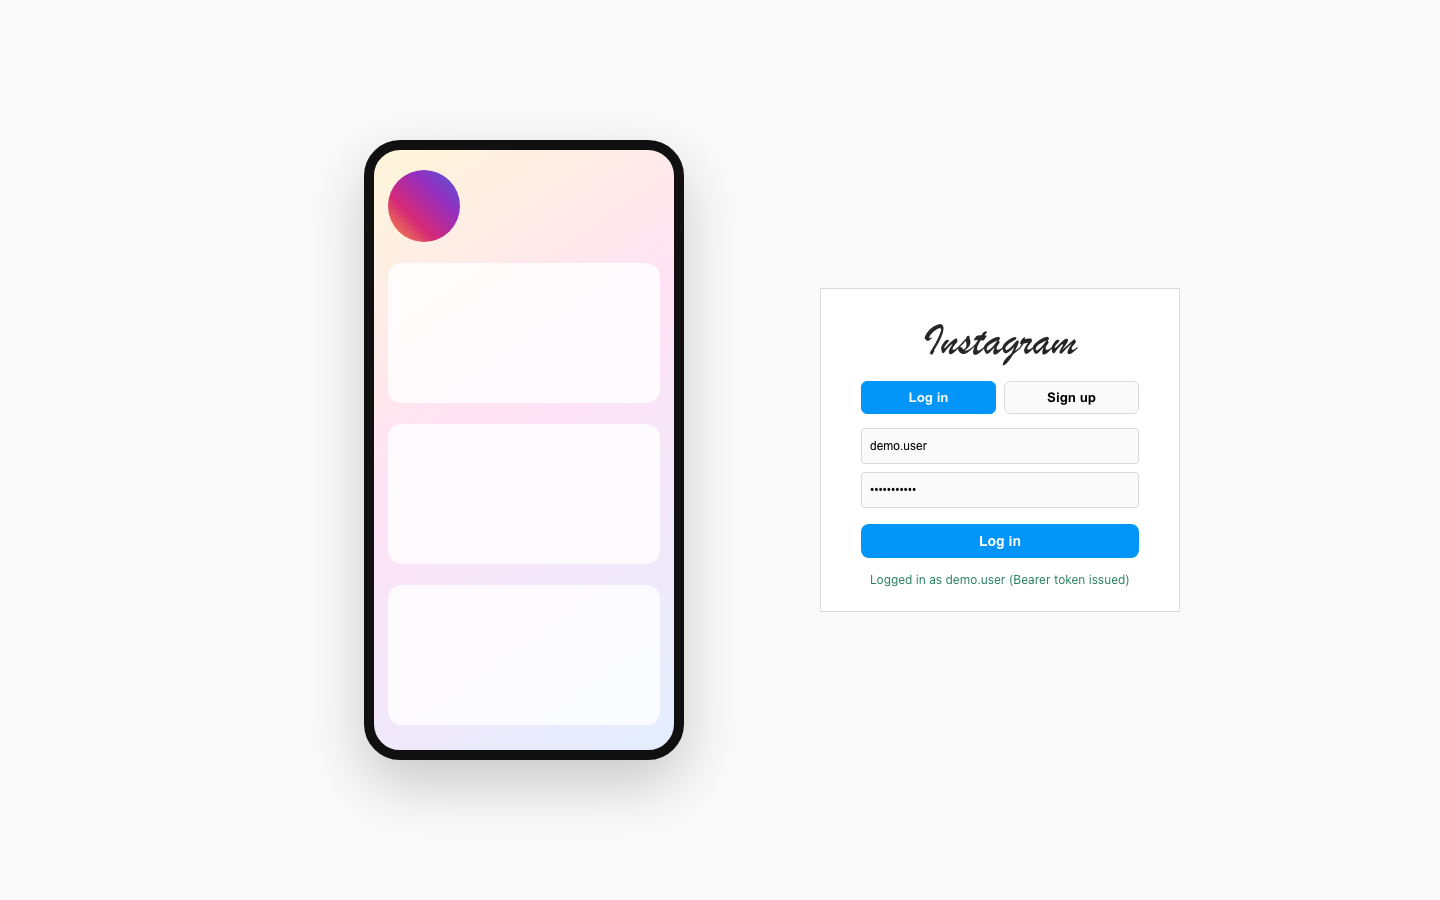
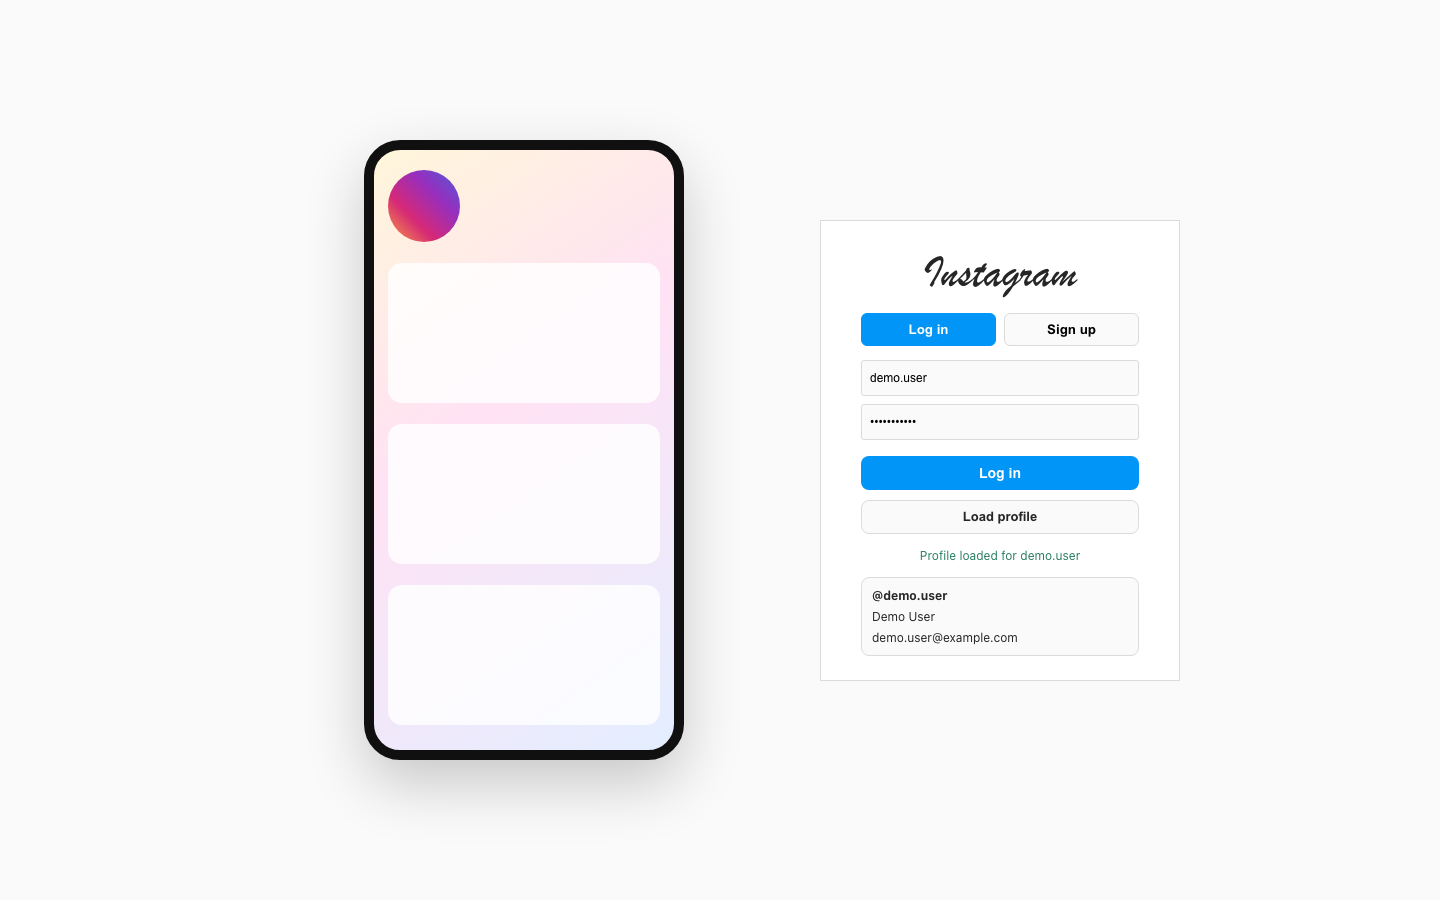
Implement protected /api/me endpoint with JWT auth

Changed region(s): [[0.5938, 0.28, 0.8125, 0.7156]]

diff --git a/src/test/java/com/instagram/backend/AuthIntegrationTests.java b/src/test/java/com/instagram/backend/AuthIntegrationTests.java
@@ -1,5 +1,6 @@
 package com.instagram.backend;
 
+import static org.springframework.test.web.servlet.request.MockMvcRequestBuilders.get;
 import static org.springframework.test.web.servlet.request.MockMvcRequestBuilders.post;
 import static org.springframework.test.web.servlet.result.MockMvcResultMatchers.jsonPath;
 import static org.springframework.test.web.servlet.result.MockMvcResultMatchers.status;
@@ -8,12 +9,17 @@ import org.junit.jupiter.api.Test;
 import org.springframework.beans.factory.annotation.Autowired;
 import org.springframework.boot.test.context.SpringBootTest;
 import org.springframework.boot.webmvc.test.autoconfigure.AutoConfigureMockMvc;
+import org.springframework.http.MediaType;
 import org.springframework.test.context.DynamicPropertyRegistry;
 import org.springframework.test.context.DynamicPropertySource;
 import org.springframework.test.web.servlet.MockMvc;
+import org.springframework.test.web.servlet.MvcResult;
 import org.testcontainers.containers.PostgreSQLContainer;
 import org.testcontainers.junit.jupiter.Container;
 import org.testcontainers.junit.jupiter.Testcontainers;
+
+import java.util.regex.Matcher;
+import java.util.regex.Pattern;
 
 @SpringBootTest
 @AutoConfigureMockMvc
@@ -73,5 +79,55 @@ class AuthIntegrationTests {
                 .andExpect(jsonPath("$.accessToken").isString())
                 .andExpect(jsonPath("$.tokenType").value("Bearer"))
                 .andExpect(jsonPath("$.expiresAt").isNumber());
+    }
+
+    @Test
+    void meRequiresBearerToken() throws Exception {
+        mockMvc.perform(get("/api/me"))
+                .andExpect(status().isUnauthorized());
+    }
+
+    @Test
+    void meReturnsAuthenticatedUserWhenTokenProvided() throws Exception {
+        String accessToken = loginAndExtractToken();
+
+        mockMvc.perform(get("/api/me")
+                        .header("Authorization", "Bearer " + accessToken))
+                .andExpect(status().isOk())
+                .andExpect(jsonPath("$.username").value("demo.user"))
+                .andExpect(jsonPath("$.fullName").value("Demo User"))
+                .andExpect(jsonPath("$.email").value("demo.user@example.com"))
+                .andExpect(jsonPath("$.createdAt").isString());
+    }
+
+    @Test
+    void meRejectsInvalidBearerToken() throws Exception {
+        mockMvc.perform(get("/api/me")
+                        .header("Authorization", "Bearer not-a-valid-token"))
+                .andExpect(status().isUnauthorized());
+    }
+
+    private String loginAndExtractToken() throws Exception {
+        MvcResult login = mockMvc.perform(post("/api/auth/login")
+                        .contentType(MediaType.APPLICATION_JSON)
+                        .content("""
+                                {
+                                  "identifier":"demo.user",
+                                  "password":"password123"
+                                }
+                                """))
+                .andExpect(status().isOk())
+                .andReturn();
+
+        return extractJsonValue(login.getResponse().getContentAsString(), "accessToken");
+    }
+
+    private String extractJsonValue(String json, String fieldName) {
+        Pattern pattern = Pattern.compile("\"" + fieldName + "\"\\s*:\\s*\"([^\"]+)\"");
+        Matcher matcher = pattern.matcher(json);
+        if (!matcher.find()) {
+            throw new IllegalStateException("Field not found in JSON response: " + fieldName);
+        }
+        return matcher.group(1);
     }
 }

diff --git a/src/main/java/com/instagram/backend/service/TokenService.java b/src/main/java/com/instagram/backend/service/TokenService.java
@@ -9,11 +9,14 @@ import javax.crypto.SecretKey;
 
 import org.springframework.beans.factory.annotation.Value;
 import org.springframework.stereotype.Service;
+import org.springframework.web.server.ResponseStatusException;
 
 import com.instagram.backend.domain.UserAccount;
 
+import io.jsonwebtoken.JwtException;
 import io.jsonwebtoken.Jwts;
 import io.jsonwebtoken.security.Keys;
+import org.springframework.http.HttpStatus;
 
 @Service
 public class TokenService {
@@ -44,6 +47,35 @@ public class TokenService {
         return new AuthToken(token, "Bearer", expiresAt.toEpochMilli());
     }
 
+    public AuthenticatedPrincipal parseAccessToken(String authorizationHeader) {
+        if (authorizationHeader == null || !authorizationHeader.startsWith("Bearer ")) {
+            throw new ResponseStatusException(HttpStatus.UNAUTHORIZED, "Missing bearer token");
+        }
+
+        String token = authorizationHeader.substring("Bearer ".length()).trim();
+        if (token.isEmpty()) {
+            throw new ResponseStatusException(HttpStatus.UNAUTHORIZED, "Missing bearer token");
+        }
+
+        try {
+            var claims = Jwts.parser()
+                    .verifyWith(signingKey)
+                    .build()
+                    .parseSignedClaims(token)
+                    .getPayload();
+
+            Long userId = Long.valueOf(claims.getSubject());
+            String username = claims.get("username", String.class);
+            String email = claims.get("email", String.class);
+            return new AuthenticatedPrincipal(userId, username, email);
+        } catch (JwtException | IllegalArgumentException ex) {
+            throw new ResponseStatusException(HttpStatus.UNAUTHORIZED, "Invalid bearer token");
+        }
+    }
+
     public record AuthToken(String accessToken, String tokenType, long expiresAt) {
+    }
+
+    public record AuthenticatedPrincipal(Long userId, String username, String email) {
     }
 }

diff --git a/src/main/java/com/instagram/backend/service/ProfileService.java b/src/main/java/com/instagram/backend/service/ProfileService.java
@@ -1,0 +1,33 @@
+package com.instagram.backend.service;
+
+import org.springframework.http.HttpStatus;
+import org.springframework.stereotype.Service;
+import org.springframework.web.server.ResponseStatusException;
+
+import com.instagram.backend.dto.MeResponse;
+import com.instagram.backend.repository.UserAccountRepository;
+
+@Service
+public class ProfileService {
+
+    private final UserAccountRepository userAccountRepository;
+    private final TokenService tokenService;
+
+    public ProfileService(UserAccountRepository userAccountRepository, TokenService tokenService) {
+        this.userAccountRepository = userAccountRepository;
+        this.tokenService = tokenService;
+    }
+
+    public MeResponse me(String authorizationHeader) {
+        TokenService.AuthenticatedPrincipal principal = tokenService.parseAccessToken(authorizationHeader);
+        var user = userAccountRepository.findById(principal.userId())
+                .orElseThrow(() -> new ResponseStatusException(HttpStatus.UNAUTHORIZED, "User not found for token"));
+
+        return new MeResponse(
+                user.getId(),
+                user.getFullName(),
+                user.getUsername(),
+                user.getEmail(),
+                user.getCreatedAt());
+    }
+}

diff --git a/src/main/java/com/instagram/backend/controller/ProfileController.java b/src/main/java/com/instagram/backend/controller/ProfileController.java
@@ -1,0 +1,25 @@
+package com.instagram.backend.controller;
+
+import org.springframework.web.bind.annotation.GetMapping;
+import org.springframework.web.bind.annotation.RequestHeader;
+import org.springframework.web.bind.annotation.RequestMapping;
+import org.springframework.web.bind.annotation.RestController;
+
+import com.instagram.backend.dto.MeResponse;
+import com.instagram.backend.service.ProfileService;
+
+@RestController
+@RequestMapping("/api")
+public class ProfileController {
+
+    private final ProfileService profileService;
+
+    public ProfileController(ProfileService profileService) {
+        this.profileService = profileService;
+    }
+
+    @GetMapping("/me")
+    public MeResponse me(@RequestHeader(value = "Authorization", required = false) String authorizationHeader) {
+        return profileService.me(authorizationHeader);
+    }
+}

diff --git a/src/main/java/com/instagram/backend/dto/MeResponse.java b/src/main/java/com/instagram/backend/dto/MeResponse.java
@@ -1,0 +1,11 @@
+package com.instagram.backend.dto;
+
+import java.time.Instant;
+
+public record MeResponse(
+        Long id,
+        String fullName,
+        String username,
+        String email,
+        Instant createdAt) {
+}

diff --git a/docs/features/04-protected-me-endpoint.md b/docs/features/04-protected-me-endpoint.md
@@ -1,0 +1,54 @@
+# 04 - Protected `/api/me` Endpoint
+
+## Goal
+
+Add a JWT-protected endpoint so the app can prove authenticated identity end-to-end after login.
+
+## What was built
+
+- Added `GET /api/me` endpoint that requires `Authorization: Bearer <token>`.
+- Added token parsing/verification flow in backend to validate bearer tokens.
+- Added profile service that maps token subject to a real user record.
+- Updated UI to call `/api/me` after login/register and show current profile data.
+
+## Feature IDs covered
+
+- `F-007` Protected endpoint (`/api/me`)
+
+## Implementation map
+
+### Backend
+
+- [ProfileController.java](../../src/main/java/com/instagram/backend/controller/ProfileController.java)
+- [ProfileService.java](../../src/main/java/com/instagram/backend/service/ProfileService.java)
+- [TokenService.java](../../src/main/java/com/instagram/backend/service/TokenService.java)
+- [MeResponse.java](../../src/main/java/com/instagram/backend/dto/MeResponse.java)
+- [AuthIntegrationTests.java](../../src/test/java/com/instagram/backend/AuthIntegrationTests.java)
+- [auth.http](../../http/auth.http)
+
+### UI
+
+- [App.tsx](../../../instagram-ui/src/App.tsx)
+- [index.css](../../../instagram-ui/src/index.css)
+- [demo-auth-proof.mjs](../../../instagram-ui/scripts/demo-auth-proof.mjs)
+
+## Test evidence
+
+- Backend integration tests:
+  - `./gradlew test`
+  - includes `/api/me` cases for missing token, invalid token, and valid token.
+- API verification:
+  - `curl http://localhost:8080/api/me` returns `401` without token.
+  - login + bearer token call to `/api/me` returns `200` with user profile JSON.
+- Browser demo proof screenshots:
+  - [01-login-page.png](../demo-proofs/2026-02-23/01-login-page.png)
+  - [02-login-success.png](../demo-proofs/2026-02-23/02-login-success.png)
+
+## Notes
+
+- `/api/me` returns identity/profile fields only (`id`, `fullName`, `username`, `email`, `createdAt`).
+- Token validation is stateless and based on JWT signature + claims.
+
+## Related system design notes
+
+- [01 - Stateless Auth and Horizontal Scaling](../system-design/01-stateless-auth-and-horizontal-scaling.md)

diff --git a/docs/features/learning-backlog.md b/docs/features/learning-backlog.md
@@ -18,7 +18,7 @@ Use this file to track product/engineering features for the app.
 | F-004 | Login UI | DONE | Browser login flow | [Feature 01](./01-authentication-and-password-security.md) |
 | F-005 | Password hashing (BCrypt) | DONE | Security baseline | [Feature 01](./01-authentication-and-password-security.md) |
 | F-006 | JWT access token issuance | DONE | Stateless auth for scale | [Feature 02](./02-jwt-access-token-issuance.md) |
-| F-007 | Protected endpoint (`/api/me`) | TODO | Validate auth end-to-end |  |
+| F-007 | Protected endpoint (`/api/me`) | DONE | Validate auth end-to-end | [Feature 04](./04-protected-me-endpoint.md) |
 | F-008 | Refresh token flow | TODO | Better session UX/security |  |
 | F-009 | Basic profile page API/UI | TODO | First authenticated product feature |  |
 | F-010 | Posts create/read API/UI | TODO | Core social functionality |  |

diff --git a/docs/index.md b/docs/index.md
@@ -7,6 +7,7 @@
 - [Feature 01: Authentication and Password Security](./features/01-authentication-and-password-security.md)
 - [Feature 02: JWT Access Token Issuance](./features/02-jwt-access-token-issuance.md)
 - [Feature 03: Browser Demo Proof and Visual Verification](./features/03-browser-demo-proof-and-visual-verification.md)
+- [Feature 04: Protected `/api/me` Endpoint](./features/04-protected-me-endpoint.md)
 - [Testing Strategy](./testing-strategy.md)
 - [Demo Proofs](./demo-proofs/README.md)
 - [System Design Path](./system-design/README.md)

diff --git a/docs/features/README.md b/docs/features/README.md
@@ -14,6 +14,7 @@ This section tracks feature implementation notes in a numbered sequence, similar
 - [01 - Authentication and Password Security](./01-authentication-and-password-security.md)
 - [02 - JWT Access Token Issuance](./02-jwt-access-token-issuance.md)
 - [03 - Browser Demo Proof and Visual Verification](./03-browser-demo-proof-and-visual-verification.md)
+- [04 - Protected `/api/me` Endpoint](./04-protected-me-endpoint.md)
 
 ## Backlog
 

diff --git a/docs/features/03-browser-demo-proof-and-visual-verification.md b/docs/features/03-browser-demo-proof-and-visual-verification.md
@@ -36,7 +36,7 @@ Make demo verification evidence mandatory and repeatable for every UI + backend 
   - [02-login-success.png](../demo-proofs/2026-02-23/02-login-success.png)
 - Visual verification result:
   - Login page loads at `http://localhost:5173`.
-  - Success state shows `Logged in as demo.user (Bearer token issued)`.
+  - Success state confirms authenticated flow in the UI.
 
 ## Notes
 
